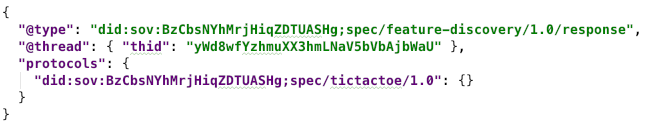
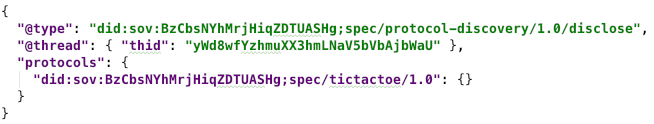
Resolve community comments

diff --git a/text/feature-discovery/README.md b/text/feature-discovery/README.md
@@ -1,34 +1,34 @@
-- Name: feature-discovery
+# HIPE XXXX: protocol-discovery 1.0
+
 - Author: Daniel Hardman
 - Start Date: 2018-12-17
 
-# feature-discovery 1.0
-[summary]: #summary
+## Summary
 
-Describes how agents can query one another to discover what protocols
-they support.
+Describes how agents can query one another to discover which protocols
+they support, and to what extent.
 
-# Motivation
+## Motivation
 [motivation]: #motivation
 
 Though some agents will support just one protocol and will be
 statically configured to interact with just one other party, many
 exciting uses of agents are more dynamic and unpredictable. When
-Alice and Bob meet, they won't know in advance what features are
+Alice and Bob meet, they won't know in advance which features are
 supported by one another's agents. They need a way to find out.
 
-# Tutorial
+## Tutorial
 [tutorial]: #tutorial
 
 This HIPE introduces a protocol for discussing the protocols an agent
 can handle. The identifier for the message family used by this protocol is
-`feature-discovery`, and the fully qualified URI for its definition is:
+`protocol-discovery`, and the fully qualified URI for its definition is:
 
-    did:sov:BzCbsNYhMrjHiqZDTUASHg;spec/feature-discovery/1.0
+    did:sov:BzCbsNYhMrjHiqZDTUASHg;spec/protocol-discovery/1.0
     
 ### Roles
 
-There are two roles in the `feature-discovery` protocol: `requester` and
+There are two roles in the `protocol-discovery` protocol: `requester` and
 `responder`. The requester asks the responder about the protocols it
 supports, and the responder answers. Each role uses a single message type.
 
@@ -40,20 +40,22 @@ predefined state machines for any `requester` and `responder`:
 [![state machines](state-machines.png)](https://docs.google.com/spreadsheets/d/1smY8qhG1qqGs0NH9g2hV4b7mDqrM6MIsmNI93tor2qk/edit)
 
 ### Messages
-##### `request` Message Type
+##### `query` Message Type
 
-A `feature-discovery/request` message looks like this:
+A `protocol-discovery/query` message looks like this:
 
-[![request](request.png)](request.json)
+[![sample query](query.png)](query.json)
 
-The `query` field may use the * wildcard. Usually this will be to
-match a prefix.
-
-Request messages say, "Please tell me what your capabilities are with
+Query messages say, "Please tell me what your capabilities are with
 respect to the protocols that match this string." This particular example
 asks if another agent knows any 1.x versions of the [tictactoe protocol](
 https://github.com/hyperledger/indy-hipe/blob/4a17a845da932609f1c6b7b8a4599bb686a1f440/text/protocols/tictactoe-1.0/README.md
 ).
+
+The `query` field may use the * wildcard. By itself, a query with just
+the wildcard says, "I'm interested in anything you want to share with
+me." But usually, this wildcard will be to match a prefix that's a little
+more specific, as in the example that matches any 1.x version.
 
 Any agent may send another agent this message type at any time.
 Implementers of agents that intend to support dynamic relationships
@@ -61,11 +63,11 @@ and rich features are *strongly* encouraged to implement support
 for this message, as it is likely to be among the first messages
 exchanged with a stranger.
 
-##### `response` Message Type
+##### `disclose` Message Type
 
-A `feature-discovery/response` message looks like this:
+A `protocol-discovery/disclose` message looks like this:
 
-[![response](response.png)](response.json)
+[![sample disclose](disclose.png)](disclose.json)
 
 The `protocols` field is a JSON object that contains zero or more keys that
 match the query. Each key is a protocol version (fully qualified message
@@ -74,7 +76,7 @@ Its value is a JSON object that enumerates the roles the responding agent
 can play in the associated protocol, and, optionally, the message types it
 can *receive* (not send).
 
-Response messages say, "Here are some protocols I know about that matched
+Response messages say, "Here are some protocols I support that matched
 your query, and some things I can do with each one."
 
 ##### Sparse Responses
@@ -92,9 +94,9 @@ until the end, and is optional anyway. Alice can start a tictactoe game
 with Bob and will eventually see whether he has the right idea about
 `outcome` messages.
 
-The empty `{}` in this response does not say, "I support no roles and no
-message types in this protocol." It says, "I support the protocol but
-I'm providing no detail about specific roles and messages."
+The empty `{}` in this response does not say, "I support no roles
+in this protocol." It says, "I support the protocol but
+I'm providing no detail about specific roles."
 
 Even an empty `protocols` map does not say, "I support no protocols
 that match your query." It says, "I'm not telling you that I support any
@@ -102,36 +104,42 @@ protocols that match your query." An agent might not tell another that
 it supports a protocol for various reasons, including: the trust that
 it imputes to the other party based on cumulative interactions so far,
 whether it's in the middle of upgrading a plugin, whether it's currently
-under high load, and so forth. And responses to a `feature-discovery` request are
+under high load, and so forth. And responses to a `protocol-discovery` request are
 not guaranteed to be true forever; agents can be upgraded or downgraded,
 although they probably won't churn in their protocol support from moment
 to moment.
 
 ### Privacy Considerations
 
-Because the regex in a `request` message can be very inclusive, the `feature-discovery`
+Because the regex in a `request` message can be very inclusive, the `protocol-discovery`
 protocol could be used to mine information suitable for agent fingerprinting,
 in much the same way that browser fingerprinting works. This is antithetical
 to the ethos of our ecosystem, and represents bad behavior. Agents should
-use `feature-discovery` to answer legitimate questions, and not to build detailed
+use `protocol-discovery` to answer legitimate questions, and not to build detailed
 profiles of one another. However, fingerprinting may be attempted
 anyway.
 
 For agents that want to maintain privacy, several best practices are
 recommended:
 
-##### Do not always provide exhaustive detail in a response.
+##### Follow selective disclosure.
+
+Only reveal supported features based on trust in the relationship.
+Even if you support a protocol, you may not wish to use it in
+every relationship. Don't tell others about protocols you do
+not plan to use with them.
 
 Patterns are easier to see in larger data samples. However, a pattern
-of ultra-minimal data is also a problem, so be more forthcoming sometimes,
-and less, others.
+of ultra-minimal data is also a problem, so use good judgment about
+how forthcoming to be.
 
 ##### Consider adding some spurious details.
 
-If a regex in a query could match multiple message families, then occasionally
+If a query could match multiple message families, then occasionally
 you might add some made-up message family names as matches. If a regex
 allows multiple versions of a protocol, then sometimes you might use some
-made-up *versions*. And sometimes not.
+made-up *versions*. And sometimes not. (Doing this too aggressively
+might reveal your agent implementation, so use sparingly.)
 
 ##### Vary the format of responses.
 
@@ -151,39 +159,32 @@ How you ask questions may also be fingerprintable.
 # Reference
 
 ### Localization
-No message types in this protocol contain localized data. However, we
-do define some error codes that can be localized. See next section.
+
+The `query` message contains a `comment` field that is localizable.
+This field is optional and may not be often used, but when it is,
+it is to provide a human-friendly justification for the query. An
+agent that consults its master before answering a query could present
+the content of this field as an explanation of the request.
+
+All message types in this family thus have the following implicit
+decorator:
+
+[![message family ~l10n decorator](protocol-discovery~l10n.png)](protocol-discovery~l10n.json)
 
 ### Message Catalog
 
-If any agent wants to send [`problem-report`s](
-https://github.com/hyperledger/indy-hipe/blob/6a5e4fe2d7e14953cd8e3aed07d886176332e696/text/error-handling/README.md#the-problem-report-message-type
-) to complain about something related to `feature-discovery` issues, it should
-ensure that [the following message catalog](catalog.json) is in scope:
+As shown in the above `~l10n` decorator, all agents using this protocol have
+[a simple message catalog](catalog.json) in scope. This allows agents to
+send [`problem-report`s](
+https://github.com/hyperledger/indy-hipe/blob/6a5e4fe2/text/error-handling/README.md#the-problem-report-message-type
+) to complain about something related to `protocol-discovery` issues.
+The catalog looks like this:
 
-[![error catalog for feature-discovery protocol](catalog.png)](catalog.json)
-
-When referencing this catalog, please be sure you have the correct
-version. The official, immutable URL to this version of the catalog file
-is:
-
-    https://github.com/hyperledger/indy-hipe/blob/88352a556ddceaea2ad5d88384cd8eea3e4c82ed/text/agent-protocols/catalog.json
+[![error catalog for protocol-discovery protocol](catalog.png)](catalog.json)
 
 For more information, see the [Message catalog section of the localization
 HIPE](https://github.com/hyperledger/indy-hipe/blob/95c6261dc6b857a36ceb348276a822dd730a5923/text/localized-messages/README.md#message-codes-and-catalogs).
-      
-
-# Drawbacks
-
-# Rationale and alternatives
-
-# Prior art
 
 # Unresolved questions
 
 - Do we want to support the discovery of features that are not protocol-related?
-- Do we need to support a human comment in a query? (I think not, but just checking.)
-- Do we need to support a quid-pro-quo (requesting agent also discloses)? Or
-  would we say that what/how the requesting agent queries is an implicit
-  disclosure? If the latter, does this need to be considered in privacy 
-  best practices?
